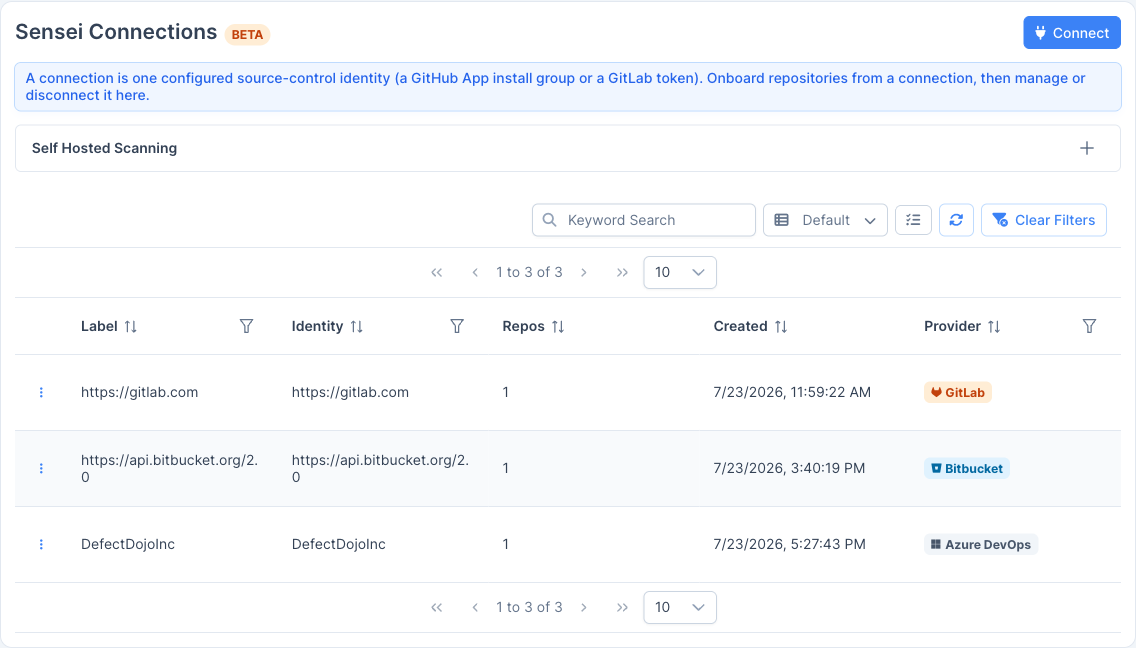
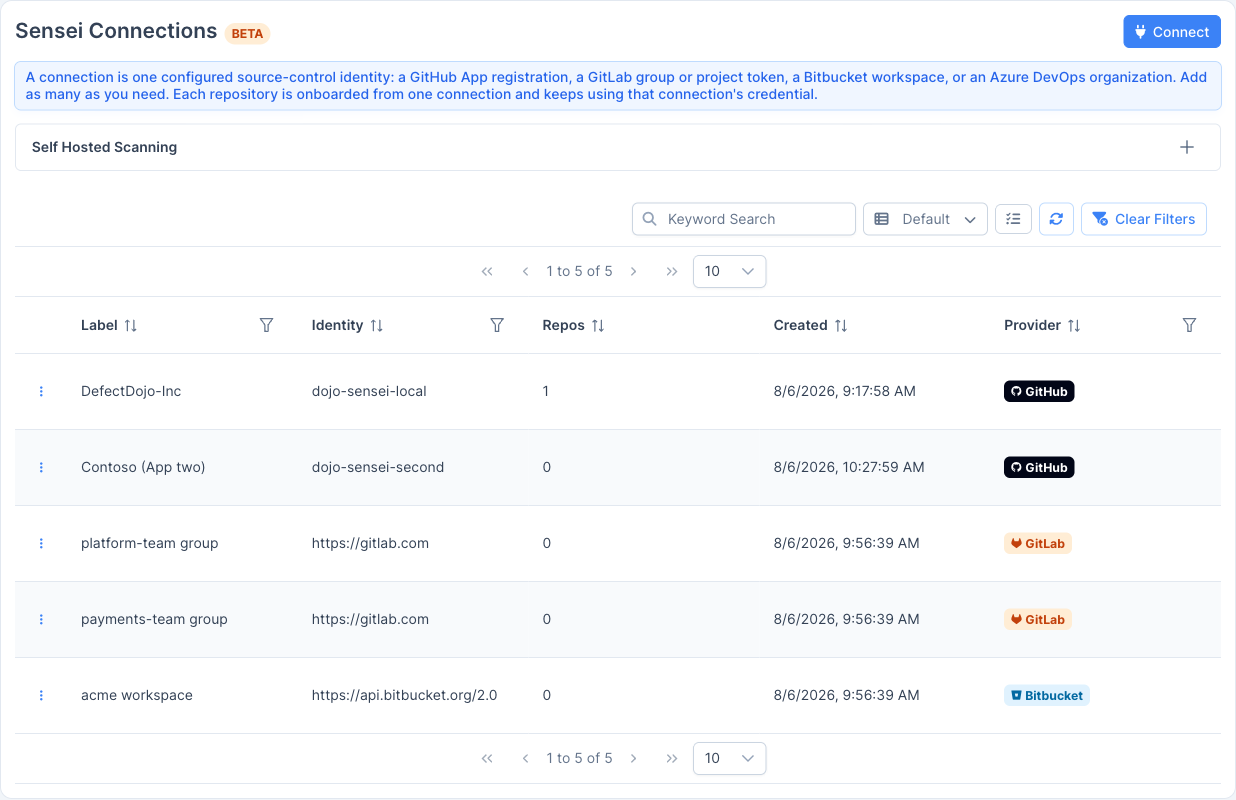
docs(sensei): refresh the Sensei setup screenshots
The reworked screens made the committed images wrong: the connection screen is now
titled "Add a connection" or "Edit connection: <label>", the Connections lead-in
names all four providers, and the repository picker carries a note about what the
list contains. setup_install_app.png was older still, showing a provider toggle
with "GitLab COMING SOON".

Replaces connections, setup_providers, setup_create_app, setup_install_app and
setup_repo_picker, and adds two images for behaviour the page describes but did not
show: the Add Repositories menu and the connection row actions.

connections.png now shows several connections per provider (two gitlab.com groups,
two GitHub App registrations), which is what the surrounding section is about.
setup_create_app.png was taken with no GitHub connection stored, matching the
first-time flow that step documents. All are seeded demo data.

Claude-Session: https://claude.ai/code/session_01HEHN7tGs9zDXB7a5x3U3Da

diff --git a/docs/content/sensei/setup_sensei.md b/docs/content/sensei/setup_sensei.md
@@ -18,13 +18,17 @@ Onboarding, configuration, scanning, and fixing are the same for every provider;
 
 **Add Repositories** on the Sensei hub is the entry point for both. It opens a menu listing each connection by name: pick one to choose repositories from it, or choose **Connect a new source** to set up a provider you haven't connected yet. With nothing connected, it goes straight to the connect flow.
 
+![The Add Repositories menu](images/add_repositories_menu.png)
+
 ## Connections
 
 A **connection** is one configured source-control identity: a GitHub App registration, a GitLab token, a Bitbucket workspace, or an Azure DevOps organization. You onboard repositories from a connection, and manage or disconnect it, from the **Connections** page (the **Connections** button on the Sensei hub).
 
 ![Sensei Connections](images/connections.png)
 
-The table lists each connection's label, identity, number of onboarded repos, creation date, and provider. Use the row actions (the menu on the left of each row) to manage the connection on its provider, add repositories from that connection, open it for editing (**Update credentials**, or **Manage App & installations** for GitHub), or disconnect it. **Add a connection** never shows an existing connection's details. Everything about a connection you already have is on its own screen, reached from its row.
+The table lists each connection's label, identity, number of onboarded repos, creation date, and provider. Use the row actions (the menu on the left of each row) to manage the connection on its provider, add repositories from that connection, open it for editing (**Update credentials**, or **Manage App & installations** for GitHub), or disconnect it.
+
+![Connection row actions](images/connection_row_menu.png) **Add a connection** never shows an existing connection's details. Everything about a connection you already have is on its own screen, reached from its row.
 
 ### Several organizations per provider
 
@@ -47,7 +51,7 @@ A provider's **webhook URL is shared by all of its connections**, and each conne
 
 From the Sensei hub, choose **Add Repositories → Connect a new source** (or **Connect** on the Connections page) to open **Add a connection**, then pick your source-control provider: **GitHub** (including GitHub Enterprise Server), **GitLab**, **Bitbucket**, or **Azure DevOps**. Each provider's connect flow is described below.
 
-![Choose a source-control provider](images/setup_providers.png)
+![Add a connection, with the source-control provider chosen here](images/setup_providers.png)
 
 ## Connect a GitHub App
 
@@ -71,7 +75,7 @@ GitHub opens a confirmation page. Click **Create GitHub App for `<org>`** to reg
 
 Back in DefectDojo, the app shows as *configured*. Click **Install on GitHub** to install it on your organization.
 
-![App created, install it](images/setup_install_app.png)
+![The connection's own screen, where the App is installed and managed](images/setup_install_app.png)
 
 On GitHub, confirm the installation location (your organization), choose **All repositories** or **Only select repositories**, and review the requested permissions. Sensei needs read access to actions, issues, and metadata, and read/write access to checks, code, pull requests, secrets, and workflows so it can scan and open fix PRs. Click **Install**.
 
